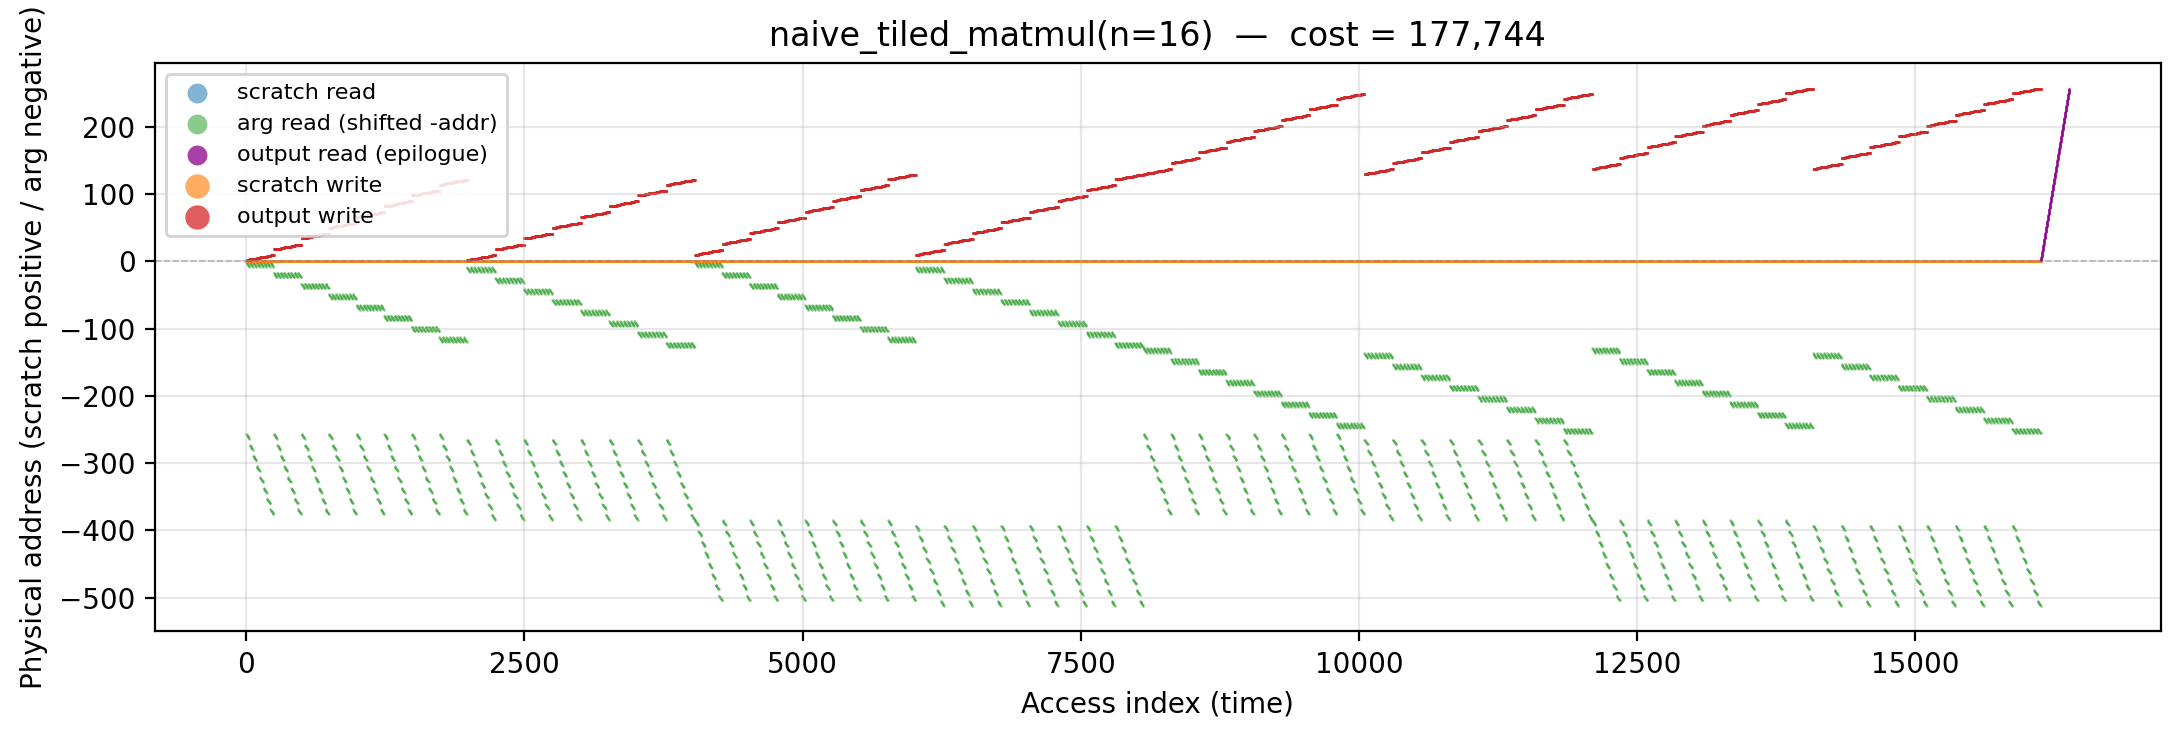
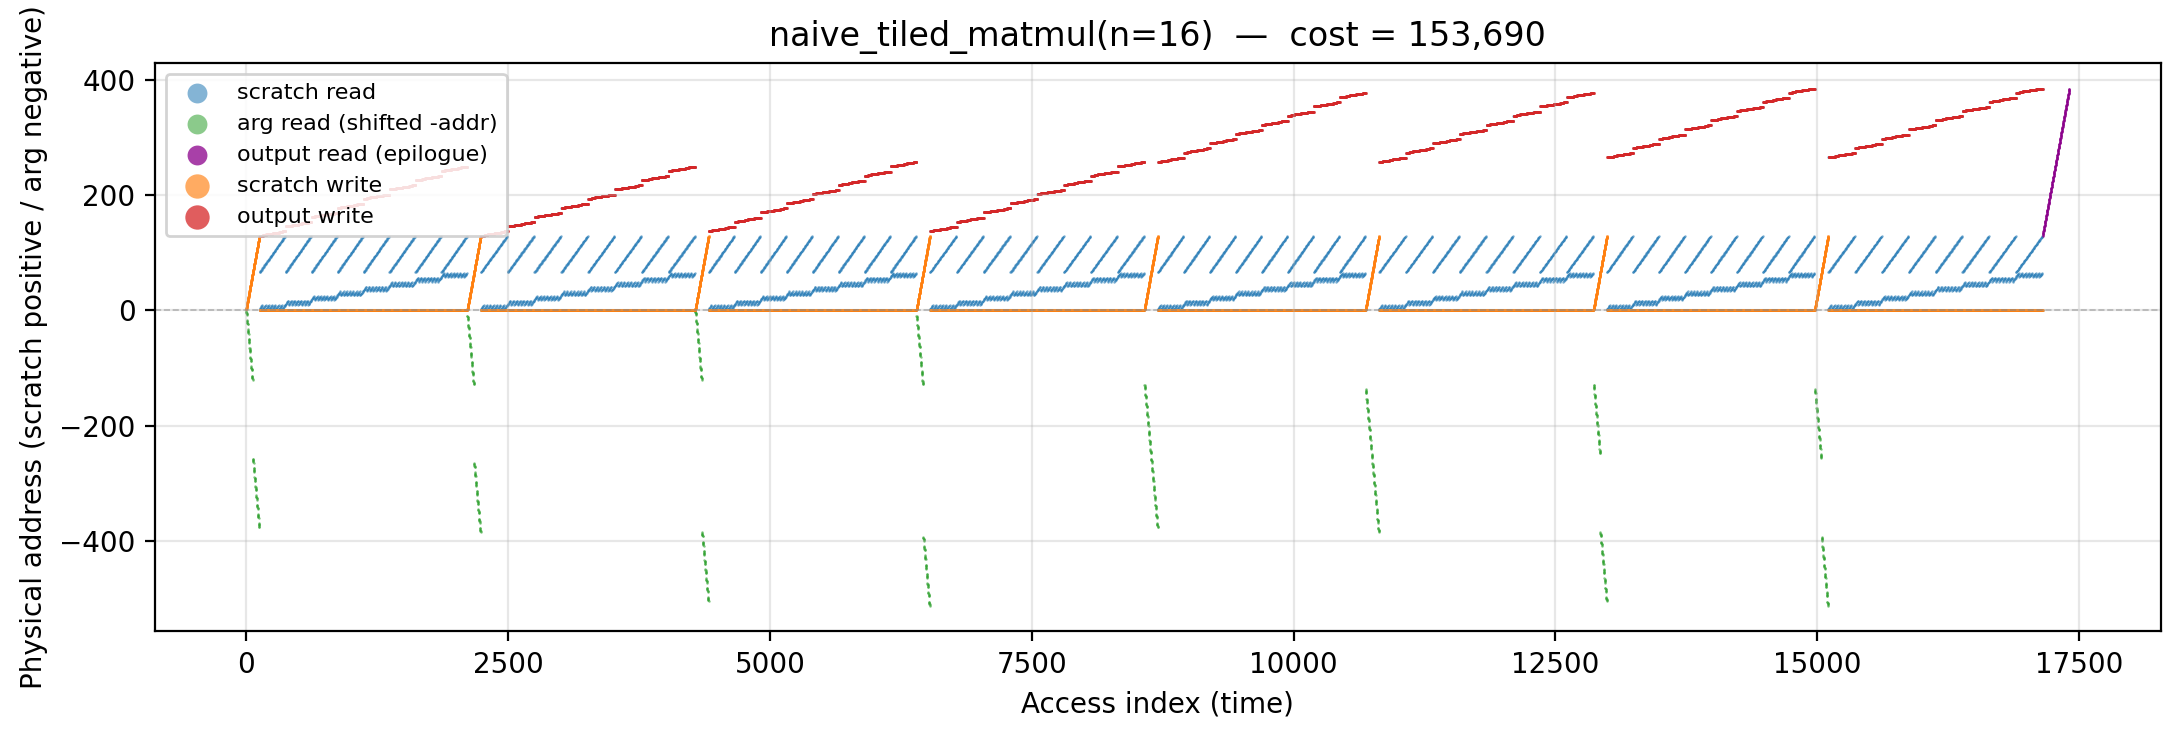
grid: naive_tiled_matmul now uses simplest scratchpad strategy
Replace the loop-reorder-only variant (which tied naive_matmul at
177,744) with the minimal-but-real scratchpad approach: before
each inner triple loop, load the current A block and current B
block into two scratch tiles (sA, sB), then run the naive (i,j,k)
inner loop against those caches. C is still accumulated in place.

Drops manual 177,744 -> 153,690 (-14%), sitting cleanly between
truly-naive and naive_matmul_cached (114,838). Each A (or B) cell
now pays one arg read at block-load time + T cheap scratch reads
in the inner loop, vs n arg reads under naive_matmul.

Also regenerates DSL port, standalone script, three of four
traces (liveset was unchanged), grid.md/csv, and the README
section.

All 36 tests pass.

diff --git a/experiments/grid/manual.py b/experiments/grid/manual.py
@@ -167,16 +167,21 @@ def manual_naive_matmul(n: int) -> int:
 
 
 def manual_naive_tiled_matmul(n: int, T: int = None) -> int:
-    """Naive matmul with 2x2 block iteration order but NO scratchpad
-    caching — just loop restructuring. Splits A, B, C into (n/T)x(n/T)
-    tiles of T-by-T (default T=n/2 → four blocks each). For each
-    output tile (BI, BJ), iterate over inner K-blocks and do the
-    naive (i,j,k) triple loop contributing into C[i][j] in place.
+    """Naive matmul with 2x2 block iteration order AND the simplest
+    possible scratchpad strategy: load the current A block and the
+    current B block into scratch once per (BI, BJ, BK) iteration,
+    then run the naive (i, j, k) triple loop against those two
+    scratch tiles. C is accumulated in place (no C-block cache).
 
-    Under the fixed-placement sqrt(addr) cost model, the total touch
-    sequence is a permutation of the `manual_naive_matmul` sequence,
-    so the cost is IDENTICAL. This row exists to make explicit that
-    tiling alone — without scratchpad caching — is cost-invisible."""
+      tmp (addr 1)           — multiply intermediate
+      sA  (addrs 2..T^2+1)   — current A block cache
+      sB  (addrs T^2+2..2T^2+1) — current B block cache
+      C   (above sB)         — output / accumulator in place
+
+    Each A cell now pays one arg read (during block load) plus T
+    scratch reads (inside the inner loop), vs n arg reads under
+    `manual_naive_matmul`. For n=16 this drops manual 177,744 →
+    less."""
     if T is None:
         T = n // 2
     assert n % T == 0, "T must divide n"
@@ -184,22 +189,37 @@ def manual_naive_tiled_matmul(n: int, T: int = None) -> int:
     a = _alloc()
     A = a.alloc_arg(n * n); B = a.alloc_arg(n * n)
     tmp = a.alloc(1)
+    sA = a.alloc(T * T)
+    sB = a.alloc(T * T)
     C = a.alloc(n * n)
     a.set_output_range(C, C + n * n)
     for bi in range(nb):
         for bj in range(nb):
             for bk in range(nb):
-                for i in range(bi * T, (bi + 1) * T):
-                    for j in range(bj * T, (bj + 1) * T):
-                        for k in range(bk * T, (bk + 1) * T):
-                            a.touch_arg(A + i * n + k)
-                            a.touch_arg(B + j * n + k)
+                # Load A block (bi, bk) into sA.
+                for i in range(T):
+                    for k in range(T):
+                        a.touch_arg(A + (bi * T + i) * n + (bk * T + k))
+                        a.write(sA + i * T + k)
+                # Load B block (bj, bk) into sB.
+                for j in range(T):
+                    for k in range(T):
+                        a.touch_arg(B + (bj * T + j) * n + (bk * T + k))
+                        a.write(sB + j * T + k)
+                # Naive triple loop against the two scratch tiles.
+                for i in range(T):
+                    for j in range(T):
+                        for k in range(T):
+                            a.touch(sA + i * T + k)
+                            a.touch(sB + j * T + k)
                             a.write(tmp)
-                            if bk == 0 and k == bk * T:
-                                a.touch(tmp); a.write(C + i * n + j)
+                            ii = bi * T + i
+                            jj = bj * T + j
+                            if bk == 0 and k == 0:
+                                a.touch(tmp); a.write(C + ii * n + jj)
                             else:
-                                a.touch(C + i * n + j); a.touch(tmp)
-                                a.write(C + i * n + j)
+                                a.touch(C + ii * n + jj); a.touch(tmp)
+                                a.write(C + ii * n + jj)
     a.read_output()
     return a.cost
 

diff --git a/experiments/grid/scripts/naive_tiled_matmul_n_16.py b/experiments/grid/scripts/naive_tiled_matmul_n_16.py
@@ -522,32 +522,44 @@ def matmul_naive_abt(A, B):
 # ===========================================================================
 
 def manual_naive_matmul(n: int) -> int:
-    """Naive matmul with 2x2 block iteration order, NO scratchpad
-    caching. Same touch set as manual_naive_matmul — just different
-    loop order — so under the fixed-placement sqrt(addr) cost model
-    the total cost is identical."""
+    """Naive 2x2-block matmul with the simplest possible scratchpad
+    strategy: load the current A block and current B block into two
+    scratch tiles once per (BI, BJ, BK) iteration, then run the
+    naive (i, j, k) triple loop against them. C accumulates in place."""
     T = n // 2
     assert n % T == 0
     nb = n // T
     a = _alloc()
     A = a.alloc_arg(n * n); B = a.alloc_arg(n * n)
     tmp = a.alloc(1)
+    sA = a.alloc(T * T)
+    sB = a.alloc(T * T)
     C = a.alloc(n * n)
     a.set_output_range(C, C + n * n)
     for bi in range(nb):
         for bj in range(nb):
             for bk in range(nb):
-                for i in range(bi * T, (bi + 1) * T):
-                    for j in range(bj * T, (bj + 1) * T):
-                        for k in range(bk * T, (bk + 1) * T):
-                            a.touch_arg(A + i * n + k)
-                            a.touch_arg(B + j * n + k)
+                for i in range(T):
+                    for k in range(T):
+                        a.touch_arg(A + (bi * T + i) * n + (bk * T + k))
+                        a.write(sA + i * T + k)
+                for j in range(T):
+                    for k in range(T):
+                        a.touch_arg(B + (bj * T + j) * n + (bk * T + k))
+                        a.write(sB + j * T + k)
+                for i in range(T):
+                    for j in range(T):
+                        ii = bi * T + i
+                        jj = bj * T + j
+                        for k in range(T):
+                            a.touch(sA + i * T + k)
+                            a.touch(sB + j * T + k)
                             a.write(tmp)
-                            if bk == 0 and k == bk * T:
-                                a.touch(tmp); a.write(C + i * n + j)
+                            if bk == 0 and k == 0:
+                                a.touch(tmp); a.write(C + ii * n + jj)
                             else:
-                                a.touch(C + i * n + j); a.touch(tmp)
-                                a.write(C + i * n + j)
+                                a.touch(C + ii * n + jj); a.touch(tmp)
+                                a.write(C + ii * n + jj)
     a.read_output()
     return a.cost
 # ===========================================================================

diff --git a/experiments/grid/manual_dsl_examples.py b/experiments/grid/manual_dsl_examples.py
@@ -37,7 +37,7 @@ def manual_naive_matmul_dsl(n: int) -> int:
 
 
 def manual_naive_tiled_matmul_dsl(n: int, T: int = None) -> int:
-    """Naive matmul with 2x2 block iteration order, no caching."""
+    """Naive 2x2-block matmul with A-block + B-block scratch tiles."""
     if T is None:
         T = n // 2
     assert n % T == 0
@@ -46,19 +46,31 @@ def manual_naive_tiled_matmul_dsl(n: int, T: int = None) -> int:
     A = s.arg_buffer(n * n)
     B = s.arg_buffer(n * n)
     tmp = s.scalar()
+    sA = s.buffer(T * T)
+    sB = s.buffer(T * T)
     C = s.output_buffer(n * n)
     for bi in range(nb):
         for bj in range(nb):
             for bk in range(nb):
-                for i in range(bi * T, (bi + 1) * T):
-                    for j in range(bj * T, (bj + 1) * T):
-                        for k in range(bk * T, (bk + 1) * T):
-                            if bk == 0 and k == bk * T:
-                                s.mul(A[i * n + k], B[j * n + k],
-                                      C[i * n + j])
+                for i in range(T):
+                    for k in range(T):
+                        s.assign(A[(bi * T + i) * n + (bk * T + k)],
+                                 sA[i * T + k])
+                for j in range(T):
+                    for k in range(T):
+                        s.assign(B[(bj * T + j) * n + (bk * T + k)],
+                                 sB[j * T + k])
+                for i in range(T):
+                    for j in range(T):
+                        ii = bi * T + i
+                        jj = bj * T + j
+                        for k in range(T):
+                            if bk == 0 and k == 0:
+                                s.mul(sA[i * T + k], sB[j * T + k],
+                                      C[ii * n + jj])
                             else:
-                                s.mac(C[i * n + j],
-                                      A[i * n + k], B[j * n + k], tmp)
+                                s.mac(C[ii * n + jj],
+                                      sA[i * T + k], sB[j * T + k], tmp)
     return s.finalize()
 
 

diff --git a/experiments/grid/README.md b/experiments/grid/README.md
@@ -60,7 +60,7 @@ DAGs are identical, so `bytedmd_live` / `bytedmd_classic` match — only
 | algorithm                                                            | space_dmd | bytedmd_live | manual      | bytedmd_classic |
 |-----------------------------------------------------------------------|----------:|-------------:|------------:|----------------:|
 | [naive_matmul(n=16)](#naive_matmul)                                   |    79,044 |      109,217 |     177,744 |         181,258 |
-| [naive_tiled_matmul(n=16)](#naive_tiled_matmul)                       |    79,044 |      109,217 |     177,744 |         181,258 |
+| [naive_tiled_matmul(n=16)](#naive_tiled_matmul)                       |    79,044 |      109,217 |     153,690 |         181,258 |
 | [naive_matmul_cached(n=16)](#naive_matmul_cached)                     |    79,044 |      109,217 |     114,838 |         181,258 |
 | [tiled_matmul(n=16)](#tiled_matmul)                                   |    93,369 |       78,708 |      68,270 |         143,812 |
 | [tiled_matmul_explicit(n=16,T=4)](#tiled_matmul_explicit)             |    73,927 |       99,006 |      68,270 |         201,547 |
@@ -187,19 +187,27 @@ with-scratchpad variant that drops 35 % off this baseline.
 
 ## naive_tiled_matmul [(code)](scripts/naive_tiled_matmul_n_16.py)
 `n=16, T=8` (four 8×8 blocks). **Algorithm.** Same matmul as
-`naive_matmul` but with a 2×2 block iteration order: iterate over
-output-block `(BI, BJ)`, inner-block `BK`, and then the naive
-triple-loop inside each block. No scratchpads — `tmp` is still the
-only scratch slot.
+`naive_matmul` but with 2×2 block iteration and the simplest
+possible scratchpad strategy: before each inner triple loop, load
+the current A block and current B block into two scratch tiles.
+C is accumulated in place (no C-block cache).
 
-**Manual placement.** Identical to `naive_matmul` (same `tmp` + `C`
-layout). **Cost is also identical: 177,744.** Under the fixed-
-placement sqrt(addr) cost model, loop reordering is cost-
-invisible: the set of touched addresses and the number of touches
-per address is the same; only their temporal order changes. This
-row exists to make that explicit — tiling alone is worthless;
-the wins come from scratchpad caching (see `naive_matmul_cached`,
-`tiled_matmul`).
+**Manual placement.**
+
+  `tmp` (addr 1)              — multiply intermediate
+  `sA`  (addrs 2..T²+1)       — current A block cache (T²=64)
+  `sB`  (addrs T²+2..2T²+1)   — current B block cache
+  `C`   (addrs 2T²+2..)       — output / accumulator in place
+
+Each A (or B) cell now pays one arg read at block-load time plus T
+cheap scratch reads inside the inner loop, vs n arg reads under
+`naive_matmul`. Drops manual **177,744 → 153,690** (−14 %) — a
+modest but real win from the minimal caching. Still above
+`naive_matmul_cached` (114,838) because the A-row hoist there
+keeps the whole of A[i][*] hot across all n values of j for fixed
+i (stronger reuse than a square tile), and well above
+`tiled_matmul` (68,270) which adds register-level stationary-
+operand scheduling on top.
 
 ![](traces/naive_tiled_matmul_n_16.png)
 

diff --git a/experiments/grid/grid.md b/experiments/grid/grid.md
@@ -1,7 +1,7 @@
 | algorithm                            | space_dmd | bytedmd_live | manual  | bytedmd_classic |
 |--------------------------------------|-----------|--------------|---------|-----------------|
 | naive_matmul(n=16)                   |    79,044 |      109,217 | 177,744 |         181,258 |
-| naive_tiled_matmul(n=16)             |    79,044 |      109,217 | 177,744 |         181,258 |
+| naive_tiled_matmul(n=16)             |    79,044 |      109,217 | 153,690 |         181,258 |
 | naive_matmul_cached(n=16)            |    79,044 |      109,217 | 114,838 |         181,258 |
 | tiled_matmul(n=16)                   |    93,369 |       78,708 |  68,270 |         143,812 |
 | tiled_matmul_explicit(n=16,T=4)      |    73,927 |       99,006 |  68,270 |         201,547 |
